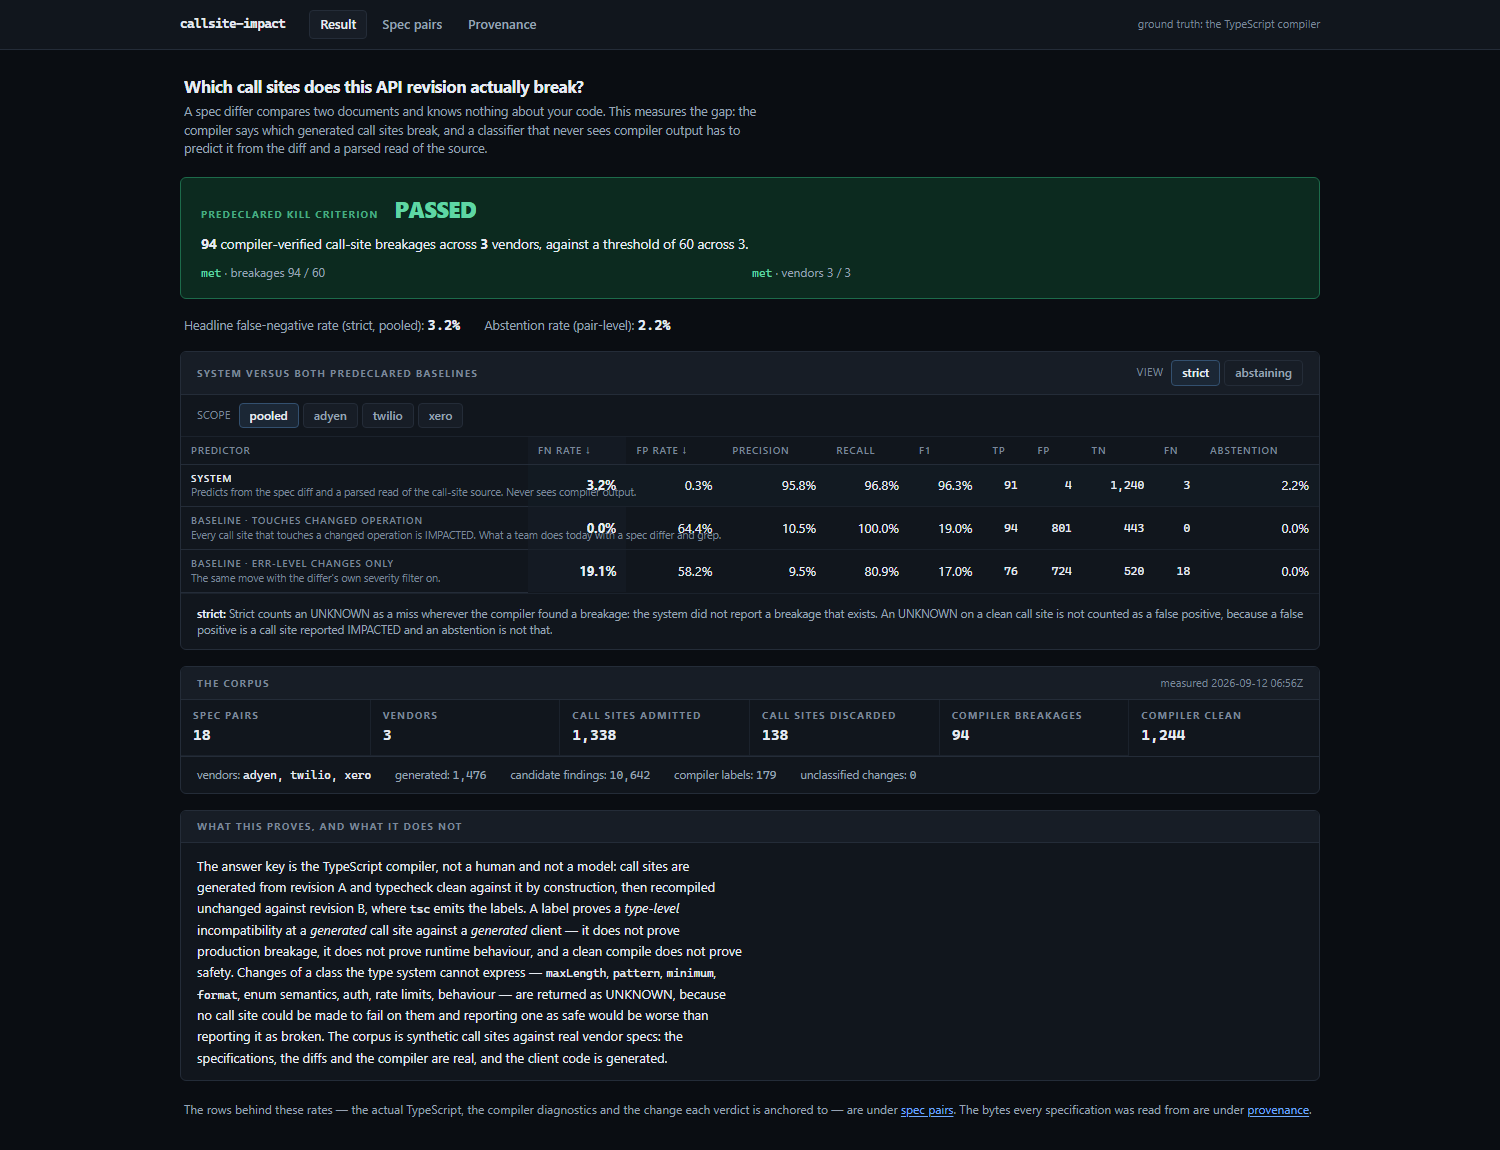
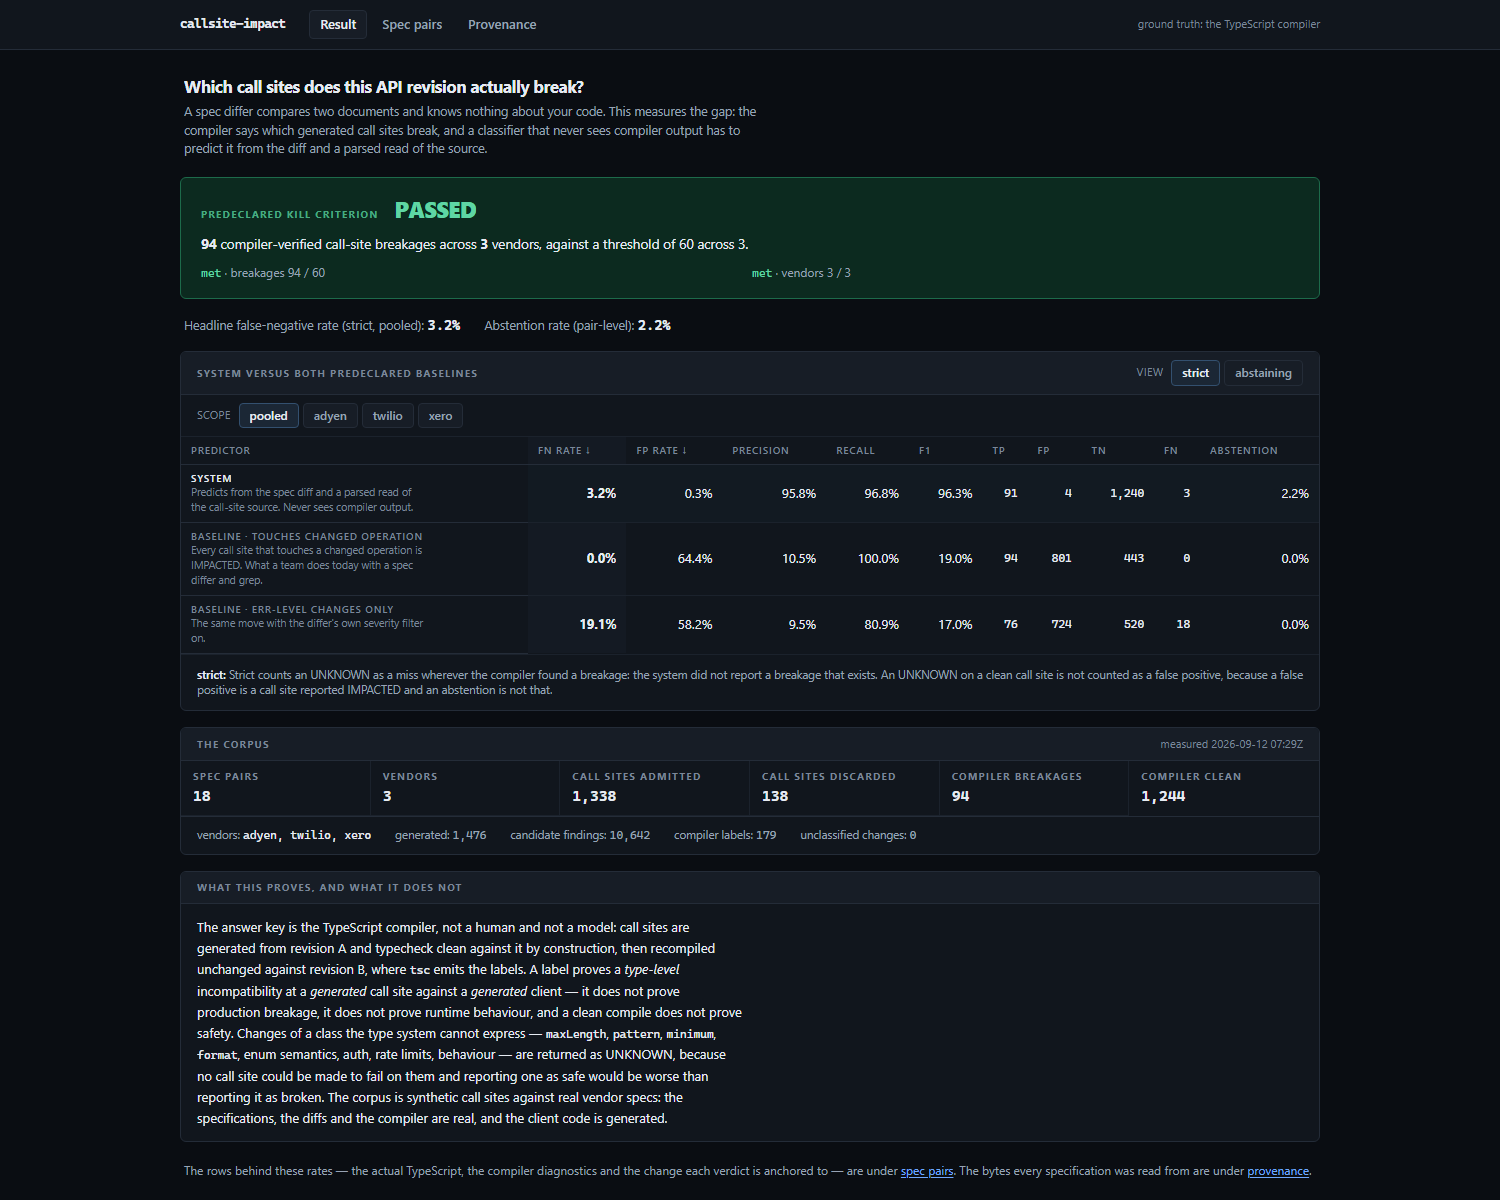
fix: the predictor note overflowed its cell and painted over the headline figure
Every th carried white-space: nowrap, which is right for a column heading and wrong for a
row heading that carries a sentence. The description could not wrap, so it ran across the
FN RATE column -- the one number the table exists to show. Screenshots retaken from the
deployed site.

diff --git a/frontend/app/globals.css b/frontend/app/globals.css
@@ -227,6 +227,13 @@
     border-bottom: none;
   }
 
+  /* `nowrap` is right for a column heading and wrong for a row heading that carries a sentence.
+     Without this the predictor's description cannot wrap, so it overflows its cell and paints
+     across the FN RATE figure -- the one number the table is built around. */
+  .grid-table tbody th {
+    white-space: normal;
+  }
+
   .num {
     text-align: right;
     font-variant-numeric: tabular-nums;

diff --git a/README.md b/README.md
@@ -173,9 +173,8 @@ reader can fetch the same file and check.
 
 ![Provenance for every specification](docs/screenshots/provenance.png)
 
-Screenshots taken from the console rendering `artifacts/evaluation.json` and
-`artifacts/findings.json` — the same files CI re-measures and the same files the deployed site
-serves.
+All four screenshots are taken from the **deployed** site above, not a local run — the same
+`artifacts/evaluation.json` and `artifacts/findings.json` that CI re-measures on every push.
 
 ---
 
